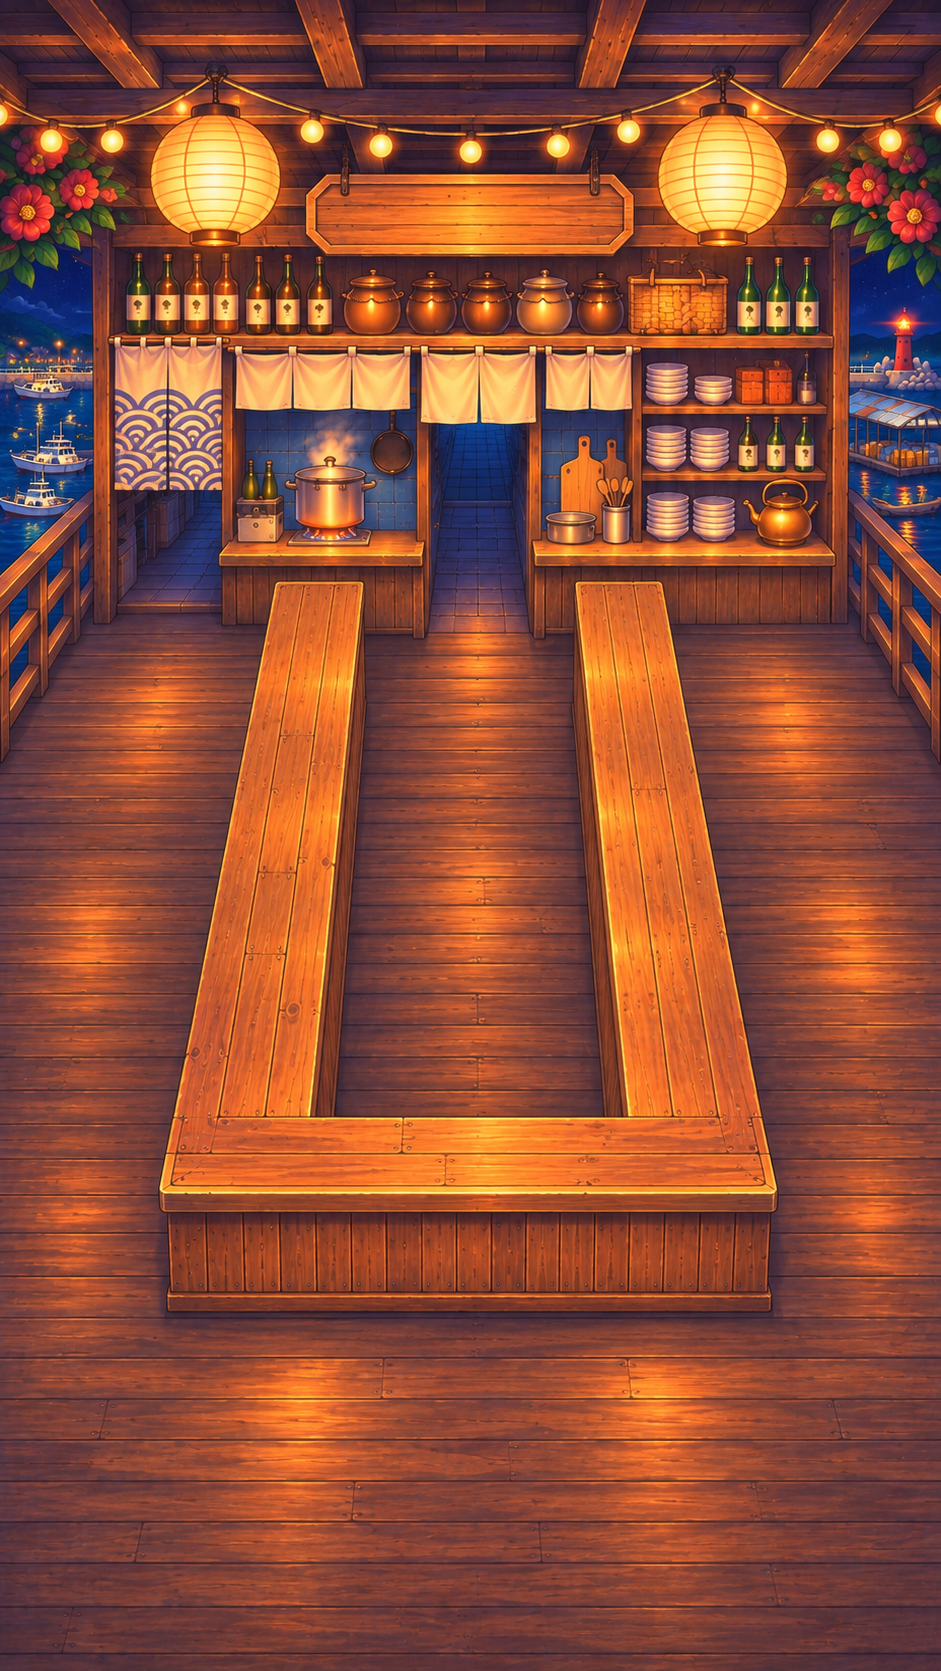
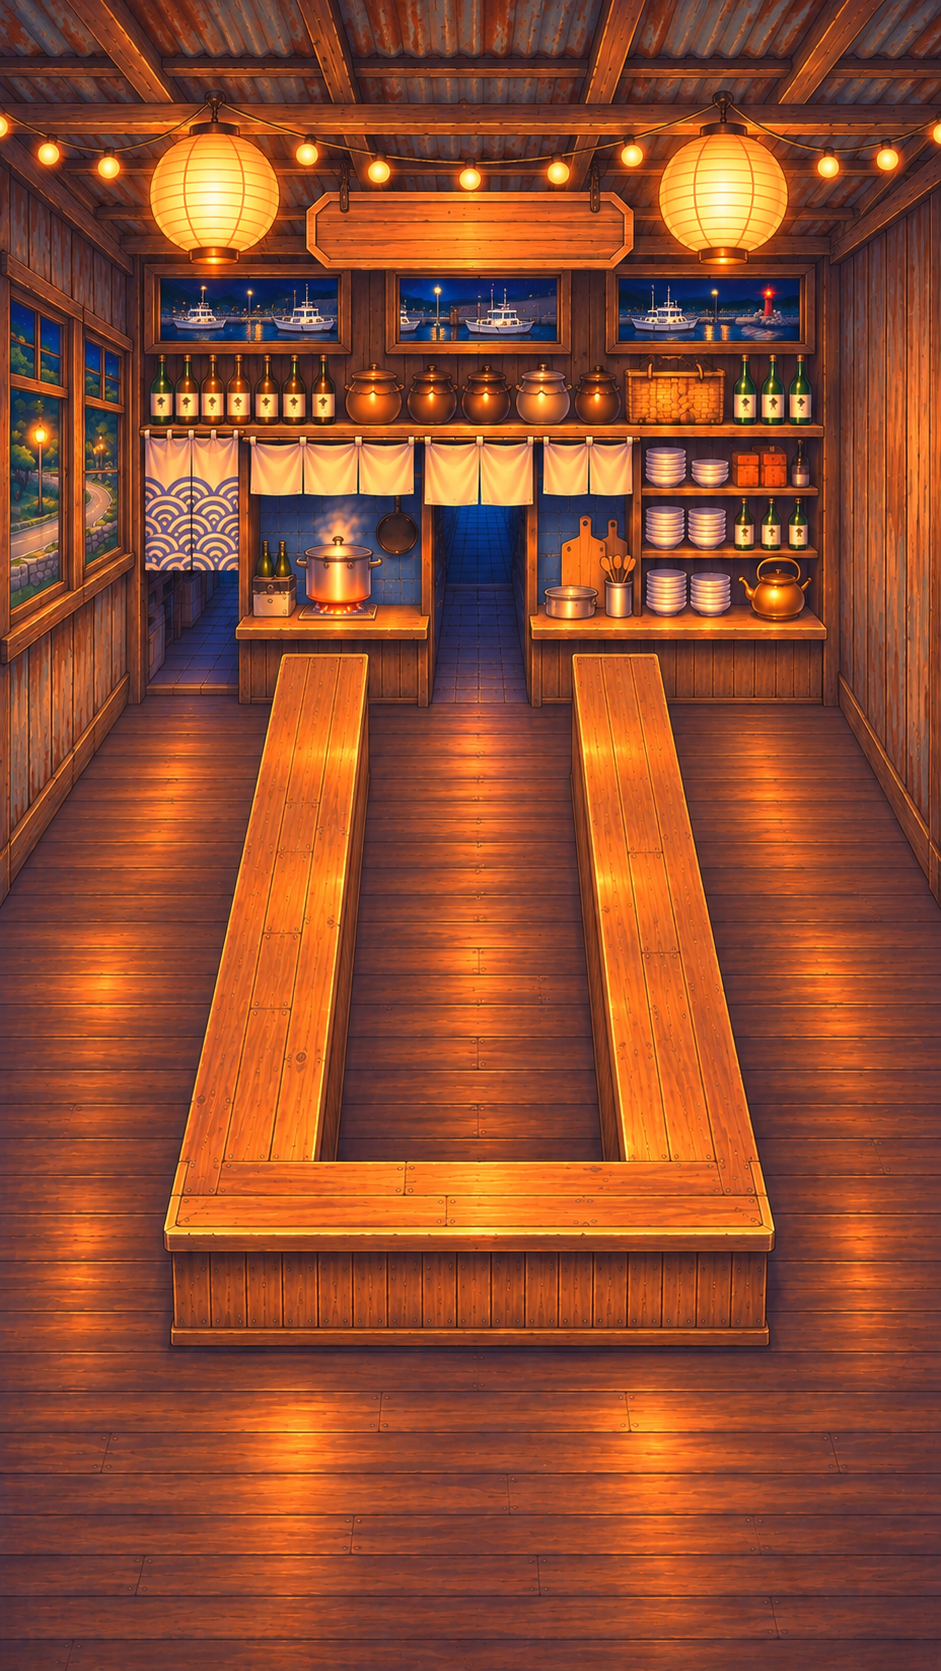
그림: 식당 내부 배경을 마을 지도에 맞춘 판으로 교체 [skip ci]
- 벽과 창이 있는 함석지붕 건물 안으로. 주방 위 창 너머 항구 부두, 왼쪽 창 너머 길, 오른쪽은 이웃 가게와 붙은 벽
- U자 바와 정면 시점은 그대로, 바와 주방이 조금 내려가 자리 비율을 다시 적음

diff --git a/docs/그림_요청_목록.md b/docs/그림_요청_목록.md
@@ -146,7 +146,7 @@
 
 | 순서 | 파일 | 내용 | 지금 |
 |:---:|---|---|---|
-| ✅ 1 | `bg_shop_inside_night.png`, `bg_shop_inside_day.png` | **확정 (11-11): U자 바를 정면에서 본 판.** 정면에서 약 25도 내려다본 거의 직교 투영(양옆 바가 평행이라 SD 150px 그대로). 위 1/3 주방(트인 출구가 안쪽 통로로), 양옆 바 바깥 4석씩, 앞 바 앞 2석, 아래 데크는 십자키 자리. 난간 너머 지도와 같은 밤·낮 항구. 가구 없는 바탕. 원본 `docs/ref/배경/식당_U자정면_밤_4안.png`, `낮_4안.png`. 자리 비율(그림 전체 기준, 발끝): 주방 출구 x 0.45~0.56, 완성 접시 (0.50, 0.33), 통로 x 0.39~0.61 y 0.36~0.66, 손님 왼쪽 x 0.13 / 오른쪽 0.87 y 0.44·0.53·0.62·0.71, 앞 바 손님 x 0.30·0.70 y 0.86, 바 위 장식 (0.29,0.45)(0.25,0.62)(0.71,0.45)(0.75,0.62), 벽 장식 (0.11,0.28)(0.89,0.28), 화분 (0.06,0.95)(0.94,0.95). 개발 세션에 전달함 | 확정 |
+| ✅ 1 | `bg_shop_inside_night.png`, `bg_shop_inside_day.png` | **확정 (11-11): U자 바를 정면에서 본 판, 바깥은 지도에 맞춤.** 정면에서 약 25도 내려다본 거의 직교 투영(SD 150px 그대로). 지도처럼 함석지붕 나무 건물 안: 주방 위 창 너머 항구 부두와 흰 어선(오른쪽 멀리 작은 빨간 등대), 왼쪽 창 너머 나무와 굽은 길, 오른쪽은 이웃 가게와 붙은 빈 벽. 위 1/3 주방(트인 출구가 안쪽 통로로), 양옆 바 바깥 4석씩, 앞 바 앞 2석, 아래는 십자키 자리. 가구 없는 바탕. 원본 `docs/ref/배경/식당_지도맞춤_밤_1안.png`, `낮_1안.png`(941x1671로 맞춤). 자리 비율(그림 전체 기준, 발끝): 주방 카운터 y 0.37, 출구 x 0.46~0.56, 완성 접시 (0.51, 0.37), 통로 x 0.39~0.61 y 0.40~0.69, 손님 왼쪽 x 0.13 / 오른쪽 0.87 y 0.48·0.57·0.66·0.75, 앞 바 손님 x 0.30·0.70 y 0.89, 바 위 장식 (0.31,0.48)(0.25,0.64)(0.69,0.48)(0.75,0.64), 벽 장식 (0.93,0.30)(0.07,0.45), 화분 (0.06,0.95)(0.94,0.95). 개발 세션에 전달함. 바로 앞 판(`식당_U자정면_밤_4안`)은 바다 위 정자처럼 그려져 지도와 달라 교체 | 확정 |
 | (지난 안) | | 위에서 본 U자 1~3안, 정면 U자 1~3안, 정면 두 단 1안(오해로 받은 판) 모두 `docs/ref/배경/식당_*`에 보관. 받는 과정에서 배운 것: SD를 게임 크기로 올려 본 확인 그림을 첨부하면 바 높이와 자리 크기가 맞게 나온다 | |
 | (지난 안) | | **정면 두 단 (오해)**. 정면 단면, 위 단: 주방 벽 → 서빙 통로 → 긴 바 → 손님 자리, 아래 단 같은 구성(뒤로 밤바다), 오른쪽 계단으로 연결, 맨 아래 1/6 데크(십자키 자리). 밤 분위기(깊은 남색, 종이 등, 알전구 줄, 술병 선반). 가구 없는 바탕. 코드 비율(바닥 영역 기준, 개발 세션 커밋 "식당 정면 두 단 배치"): 위 통로 y 0.24, 아래 통로 y 0.62, 통로 x 0.06~0.92, 계단 x 0.80~0.92, 손님 위 y 0.44 / 아래 y 0.84, x 0.14·0.32·0.50·0.68, 완성 접시 (0.4, 0.12), 바 위 장식 (0.23/0.59, 0.31/0.70), 벽 장식 (0.12/0.72, 0.10), 화분 (0.06/0.94, 0.97) | 1안 `docs/ref/배경/식당_정면두단_밤_1안.png`. 바 뒤 서빙 통로가 거의 없어 고칠 후보 |
 | 1-0 | `sd_guest/<id>_seat.png` | 앉은 뒷모습 한 줄 4칸: 기다림, 먹는 중, 만족, 화남. 바를 보고 앉아 등이 보임. 주문 말풍선은 코드가 머리 위에 띄움 | |
